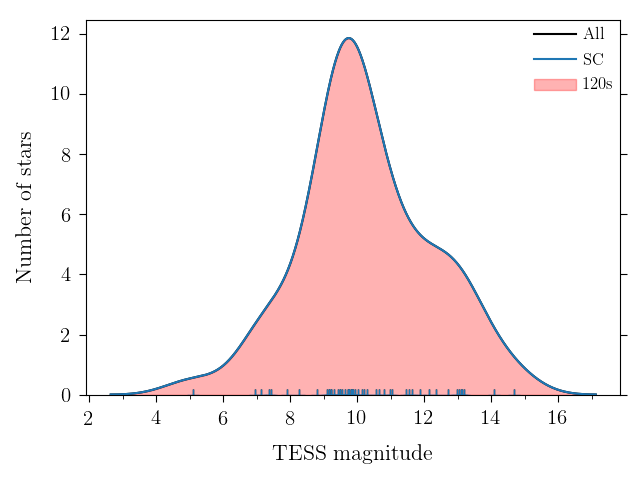
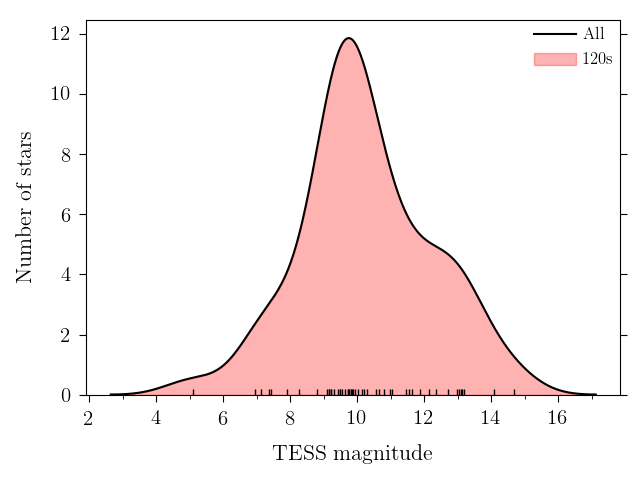
mag plot update

diff --git a/release_plots.py b/release_plots.py
@@ -694,13 +694,13 @@ def plot_mag_dist(data_path, sector, version=1, savetex=False):
 	ax.plot(kde_all.support, kde_all.density*len(tmag_all), 'k-', lw=1.5, label='All')
 
 	
-	try:
-		kde_sc = KDE(tmag_vals_sc)
-		kde_sc.fit(gridsize=1000)
-		ax.plot(kde_sc.support, kde_sc.density*len(tmag_vals_sc), label='SC')
-		ax.scatter(tmag_vals_sc, np.zeros_like(tmag_vals_sc), lw=1, marker='+', s=80)
-	except:
-		pass		
+#	try:
+#		kde_sc = KDE(tmag_vals_sc)
+#		kde_sc.fit(gridsize=1000)
+#		ax.plot(kde_sc.support, kde_sc.density*len(tmag_vals_sc), label='SC')
+#		ax.scatter(tmag_vals_sc, np.zeros_like(tmag_vals_sc), lw=1, marker='+', s=80)
+#	except:
+#		pass		
 	
 #	ax.set_xlim([3.5, 16.5])
 	ax.set_ylim(ymin=0)
@@ -853,10 +853,10 @@ if __name__ == "__main__":
 #	data_paths = np.array([path0 + '08', path0 + '09', path0 + '10', path0 + '11', path0 + '12'])
 	#data_paths = np.array([path0 + '10',]
 
-	plot_bg([path1], cad=1800, sector=2, version=1, sysnoise=0, savetex=False)
-	plot_noice_lc([path1], cad=1800, sector=2, version=1, sysnoise=0, savetex=False)
-	plot_onehour_noise([path0, path1], cad=1800, sector=2, version=1, sysnoise=0, savetex=True, labels=np.array(['Sector 1', 'Sector 2']))
-	plot_pixinaperture([path0, path1], sector=2, version=1, savetex=True, labels=np.array(['Sector 1', 'Sector 2']))
-	plot_mag_dist(path1, sector=2, version=1, savetex=False)
+#	plot_bg([path1], cad=1800, sector=2, version=1, sysnoise=0, savetex=False)
+#	plot_noice_lc([path1], cad=1800, sector=2, version=1, sysnoise=0, savetex=False)
+#	plot_onehour_noise([path0, path1], cad=1800, sector=2, version=1, sysnoise=0, savetex=True, labels=np.array(['Sector 1', 'Sector 2']))
+#	plot_pixinaperture([path0, path1], sector=2, version=1, savetex=True, labels=np.array(['Sector 1', 'Sector 2']))
+	plot_mag_dist(path0, sector=1, version=2, savetex=False)
 
 	
